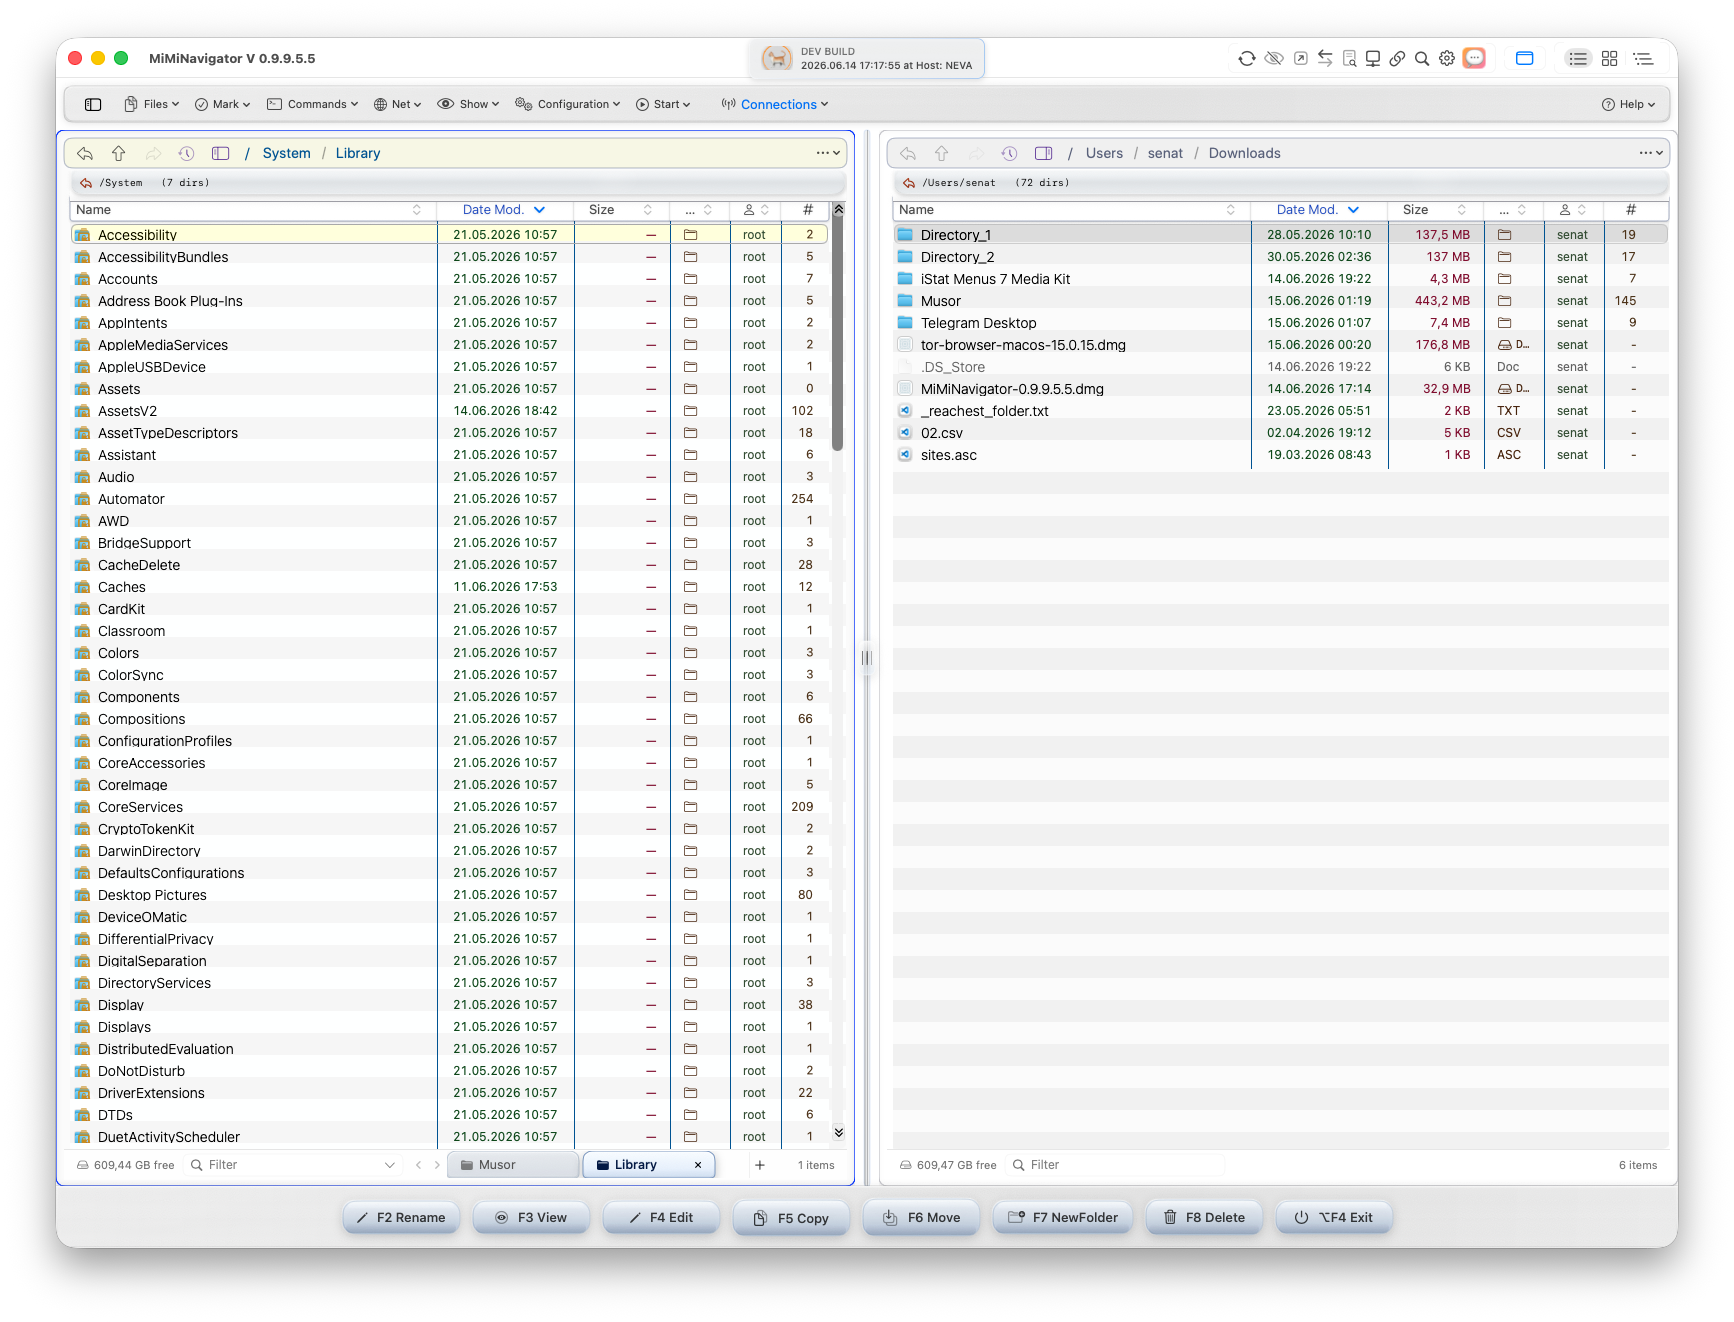
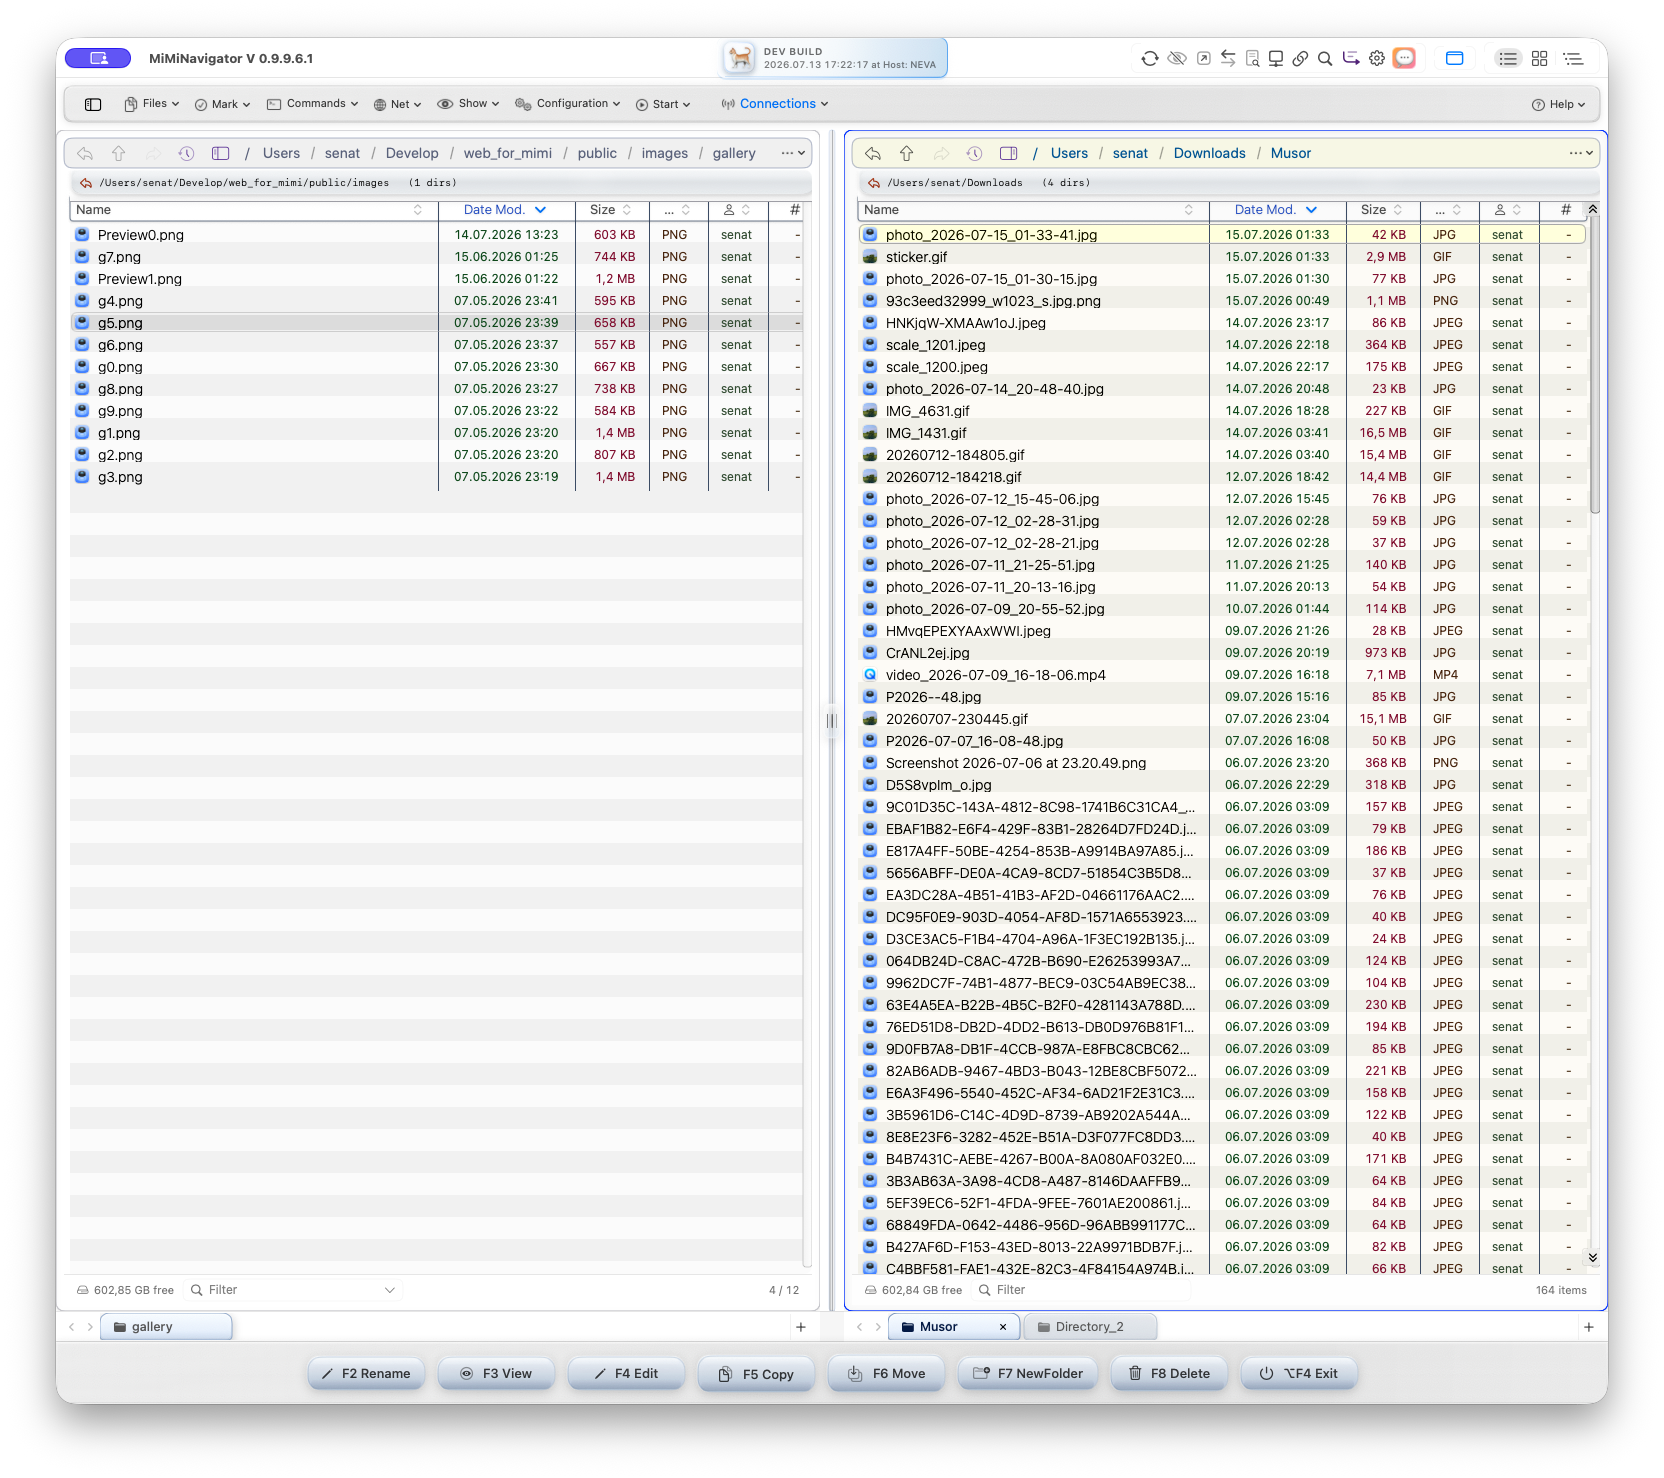
New: new previews

diff --git a/src/styles.css b/src/styles.css
@@ -11,7 +11,7 @@
     --gd-green: #1e8e3e;
     --gd-red: #d93025;
     --gd-yellow: #f9ab00;
-    --gd-grey-900: #202124;
+    --gd-grey-900: #414d72;
     --gd-grey-700: #3c4043;
     --gd-grey-500: #5f6368;
     --gd-grey-300: #dadce0;
